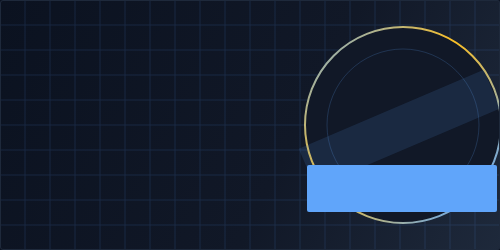
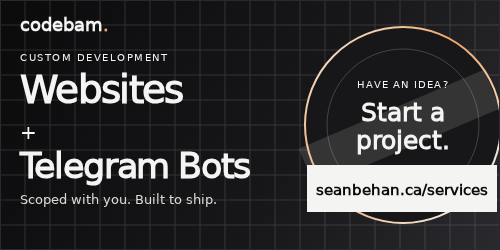
Re-ink the palette surfaces the tokens cannot reach
A palette change is not only a token change. The social cards, the
manifest, the favicon and its build script, the résumé's LaTeX palette
(and the template's fallback defaults), the display ads and the ad build
script each held a copy of the old slate-and-blue values, and DESIGN.md §1
exists because last time they were forgotten.

The favicon is re-rendered square (the design has no rounded corner), the
ads are re-inked and re-rasterised, and the four seanbehan ad SVGs are
valid XML again: their comments contained '--positive', and a '--' inside
an XML comment makes the whole document unparseable, so chromium rendered a
broken-image icon and `node tools/ads/build-ads.mjs` had been producing
those since the comment was last edited. The palette move forced the
discovery.

The three codebam raster-only ads (codebam-ad-1200x628.png,
codebam-ad-500x250.png, codebam-ad-900x471.png) still hold the old colours:
they have no vector source in this repo, so they need a hand re-ink. The
brand plates in public/img/brand/ are the other raster surface — there is
no build step for them either.

diff --git a/src/pages/og/[slug].png.ts b/src/pages/og/[slug].png.ts
@@ -45,13 +45,14 @@ const HEIGHT = 630;
 // The light palette from app.css, and the values to change when it does. The
 // cards are a fixed surface — a social preview has no reader theme to follow —
 // so the light values are the values. ACCENT is the warm editorial token
-// rather than the interactive blue: a card has nothing to click, and this is
-// the one mark it makes about itself.
+// rather than the interactive ink: a card has nothing to click, and this is
+// the one mark it makes about itself. LINE is the strong rule (--line-strong),
+// not the hairline: the card's footer rule is a section start.
 const BG = '#ffffff';
-const TEXT = '#0f172a';
-const MUTED = '#64748b';
+const TEXT = '#0a0a0a';
+const MUTED = '#5f5f5b';
 const ACCENT = '#b45309';
-const LINE = '#cbd5e1';
+const LINE = '#111111';
 
 /**
  * Long titles step down a size rather than wrapping into a fourth line, which

diff --git a/src/pages/site.webmanifest.ts b/src/pages/site.webmanifest.ts
@@ -23,7 +23,7 @@ export const GET: APIRoute = async () => {
 		background_color: '#ffffff',
 		theme_colors: [
 			{ color: '#ffffff', media: '(prefers-color-scheme: light)' },
-			{ color: '#0b1220', media: '(prefers-color-scheme: dark)' }
+			{ color: '#0b0b0c', media: '(prefers-color-scheme: dark)' }
 		],
 		display: 'standalone',
 		scope: '/'

diff --git a/tools/favicon/README.md b/tools/favicon/README.md
@@ -18,7 +18,7 @@ bash tools/favicon/build-favicon.sh   # writes to tools/favicon/out
 
 Each size is rendered natively rather than downscaled from one master, so the
 small sizes get their own rasterization pass. 16 and 32 use a tuned variant —
-weight 600, tracking −2, corner radius 9 — because the display proportions turn
+weight 600, tracking −2, corner radius 0 — because the display proportions turn
 to mush at tab size.
 
 `favicon.ico` is written by hand in Node: header, directory, then the 16/32/48
